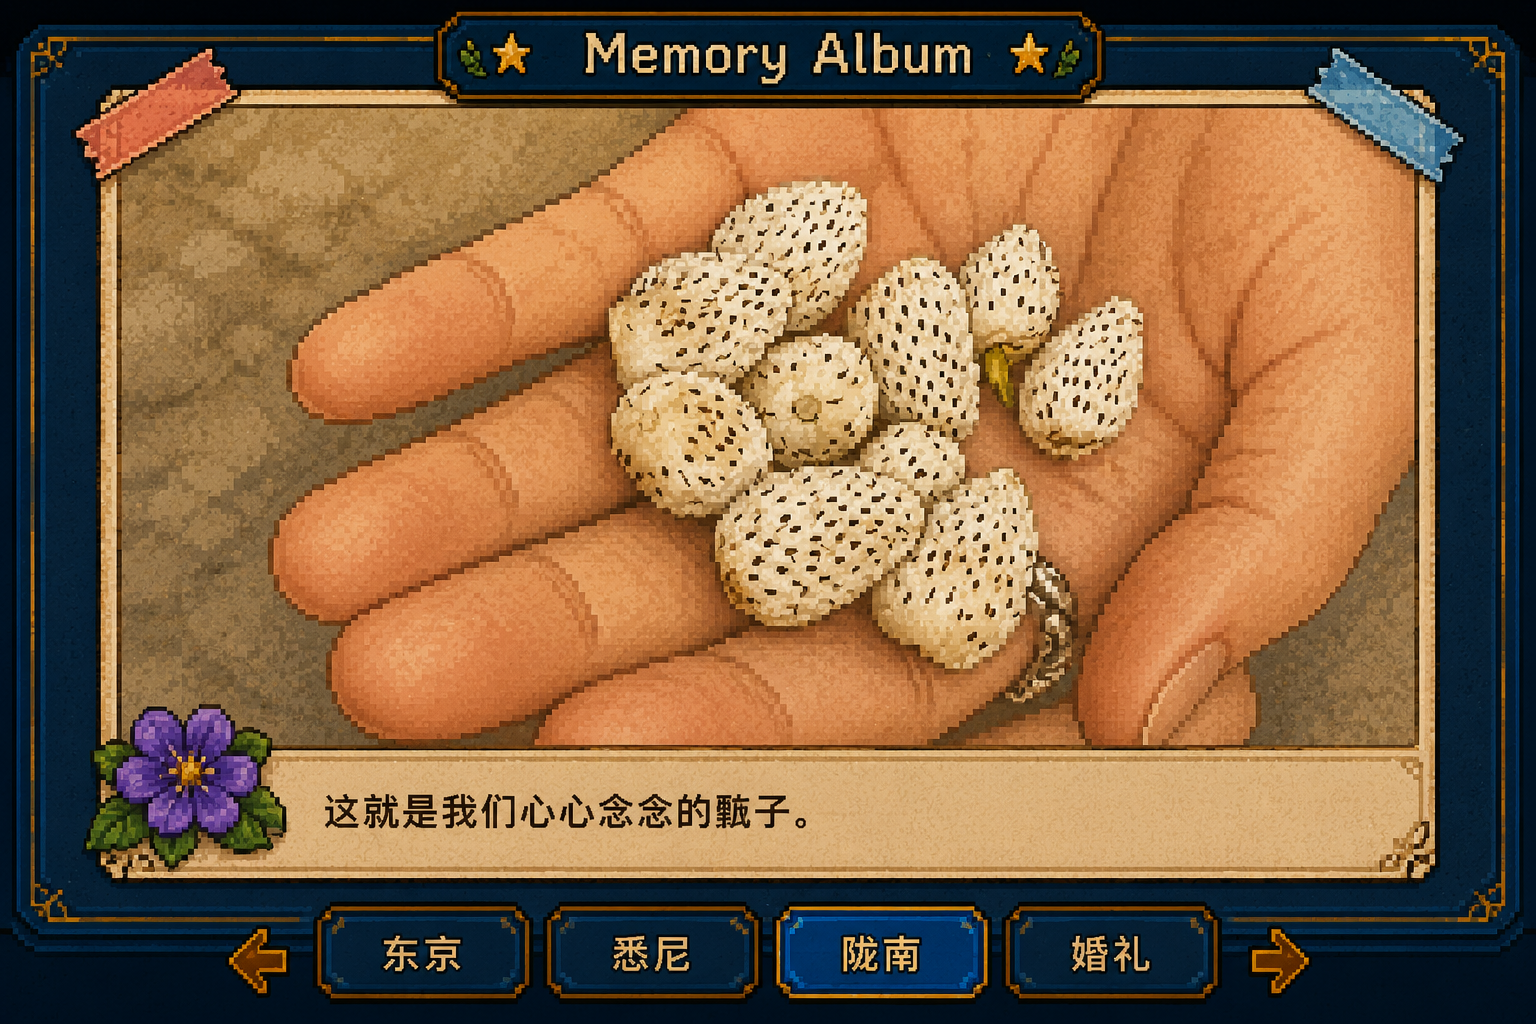
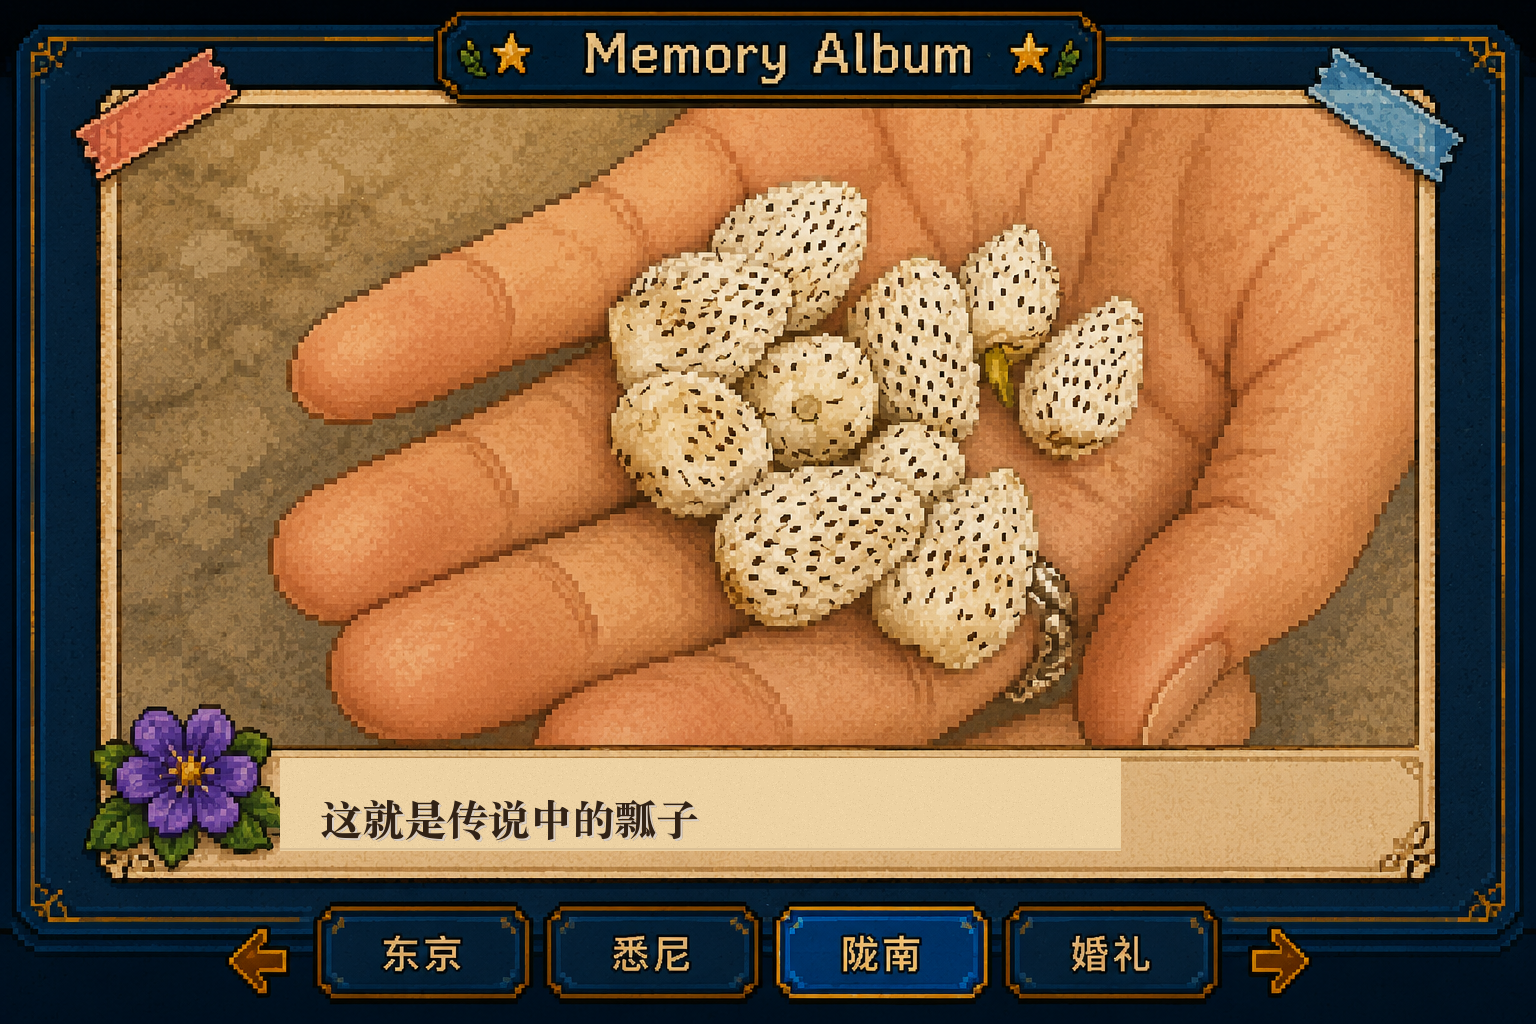
mod

Changed region(s): [[0.1562, 0.7188, 0.75, 0.8438]]

diff --git a/main.js b/main.js
@@ -1,6 +1,6 @@
 /* ======================================
    AdventureWedding
-   Version 0.9.8.1 — Sydney Coles Dialogue Polish
+   Version 0.9.9 — Longnan Chapter Final Polish
 ====================================== */
 
 const canvas = document.getElementById("background");
@@ -908,7 +908,7 @@ const achievements = {
 // Story memories are intentionally lightweight: unlocking one records it for
 // the future album without introducing inventory or reward mechanics.
 const memoryAlbum = {
-    longnanBridgePiaozi: { unlocked: false, title: "Piaozi" }
+    longnanBridgePiaozi: { unlocked: false, title: "瓢子" }
 };
 
 let nearbyCatEvent = false;
@@ -1298,10 +1298,10 @@ function showLongnanMemorySparkle(interaction) {
 
 loadLongnanProgress();
 const longnanCGSequence = [
-    { id: "longnanChildhoodDrawing", pages: [{ speaker: "乐乐", text: "小时候，\n我最喜欢画这些山。" }] },
-    { id: "longnanPiaozi", pages: [{ speaker: "乐乐", text: "第一次摘到瓢子，\n也是在这里。" }] },
-    { id: "longnanTogether", pages: [{ speaker: "森", text: "原来，\n这里，\n就是你的世界。" }] },
-    { id: "longnanSunset", pages: [{ speaker: "森", text: "谢谢你，\n带我回来。" }, { speaker: "乐乐", text: "谢谢你，\n一直陪着我。" }] }
+    { id: "longnanChildhoodDrawing", hold: 1.05, pages: [{ speaker: "乐乐", text: "小时候，\n我最喜欢画这些山。" }] },
+    { id: "longnanPiaozi", hold: 1.25, pages: [{ speaker: "乐乐", text: "第一次摘到瓢子，\n也是在这里。" }] },
+    { id: "longnanTogether", hold: 1.15, pages: [{ speaker: "森", text: "原来，\n这里，\n就是你的世界。" }] },
+    { id: "longnanSunset", hold: 1.45, pages: [{ speaker: "森", text: "谢谢你，\n带我回来。" }, { speaker: "乐乐", text: "谢谢你，\n一直陪着我。" }] }
 ];
 
 const TOKYO_WORLD_PROMPT = "Warm 16-bit top-down Tokyo spring neighborhood: Tokyo Station entrance at the top center, park and pond at upper left, shrine at upper right, shopping street on the left, sakura avenue on the right, road and crosswalk below, and a river with wooden bridges along the bottom. Use dense handcrafted pixel-art detail, clear walkable stone paths, no labels, no UI, and no NPCs.";
@@ -1440,8 +1440,8 @@ const storyCGs = {
         memoryAlbum: true
     },
     longnanAlbumPiaozi: {
-        src: "assets/cg/memory-album/longnan-piaozi.png?v=0.8.7",
-        locationTitle: "Piaozi",
+        src: "assets/cg/memory-album/longnan-piaozi.png?v=0.9.9",
+        locationTitle: "瓢子",
         focalX: 0.5,
         focalY: 0.5,
         mobileDisplay: "contain",
@@ -2345,7 +2345,8 @@ function closeMeetingDialogue() {
     if (dialoguePurpose === "longnanHometown") {
 
         storyCGOverlay.phase = "endingHold";
-        storyCGOverlay.revealDelay = 0.45;
+        storyCGOverlay.revealDelay = 0.9;
+        gameplayPauseRemaining = 0.55;
 
     }
 
@@ -2358,26 +2359,25 @@ function closeMeetingDialogue() {
 
         };
         storyCGOverlay.phase = "endingHold";
-        storyCGOverlay.revealDelay = 0.8;
+        storyCGOverlay.revealDelay = longnanCGSequence[longnanCGIndex]?.hold || 1.1;
 
     }
 
     if (dialoguePurpose === "longnanMemory" && activeInteraction) {
 
+        markLongnanMemoryDiscovered(activeInteraction);
         activeInteraction.discovered = true;
         if (!activeInteraction.repeatable) activeInteraction.completed = true;
+        gameplayPauseRemaining = activeInteraction.id === "bridgeFlood" ? 0.75 : 0.45;
 
     }
 
     if (dialoguePurpose === "longnanPiaozi" && activeInteraction) {
 
+        markLongnanMemoryDiscovered(activeInteraction);
         activeInteraction.discovered = true;
-        if (activeInteraction.memoryId && memoryAlbum[activeInteraction.memoryId]) {
-
-            memoryAlbum[activeInteraction.memoryId].unlocked = true;
-            window.AudioManager?.playSFX?.("memoryUnlock");
-
-        }
+        window.AudioManager?.playSFX?.("memoryUnlock");
+        gameplayPauseRemaining = 0.95;
 
     }
 
@@ -3835,7 +3835,7 @@ function tryInteraction() {
             id: "longnanHometownView",
             dialogue: longnanHometownPages,
             dialoguePurpose: "longnanHometown",
-            revealDelay: 0.35
+            revealDelay: 0.5
         });
 
     } else if (nearbyLongnanMemoryAlbum) {
@@ -4259,6 +4259,19 @@ function getCameraTarget(zoom = getCameraFollowZoom()) {
 
     }
 
+    if (currentChapter === "longnanLookout" || currentChapter === "longnanTown") {
+
+        const scenicOffsetY = currentChapter === "longnanLookout"
+            ? (gameViewportState.isMobile && gameViewportState.portrait ? 42 : 18)
+            : (gameViewportState.isMobile && gameViewportState.portrait ? 68 : 26);
+
+        return {
+            x: Math.max(0, Math.min(player.x + player.width / 2 - visibleWidth / 2, maxX)),
+            y: Math.max(0, Math.min(player.y + player.height / 2 + scenicOffsetY - visibleHeight / 2, maxY))
+        };
+
+    }
+
     if (weddingGatewaySequence.active && ["formation", "approach", "catPause", "coupleEnter", "whiteFade", "whiteHold"].includes(weddingGatewaySequence.phase)) {
 
         const partyCenterX = (player.x + le.x + player.width + le.width) / 2;
@@ -4383,7 +4396,9 @@ function updateCamera(deltaTime) {
 
     const followZoom = getCameraFollowZoom();
     let target = getCameraTarget(followZoom);
-    const followAmount = 1 - Math.pow(1 - camera.smoothing, deltaTime * 60);
+    const longnanCameraPacing = currentChapter === "longnanLookout" || currentChapter === "longnanTown";
+    const cameraSmoothing = longnanCameraPacing ? Math.max(0.04, camera.smoothing * 0.62) : camera.smoothing;
+    const followAmount = 1 - Math.pow(1 - cameraSmoothing, deltaTime * 60);
 
     if (characterPanelOpen) return;
 

diff --git a/index.html b/index.html
@@ -150,8 +150,8 @@ PRESS START
 
 <footer class="version">
 
-Version 0.9.8.1<br>
-Sydney Coles Dialogue Polish
+Version 0.9.9<br>
+Longnan Chapter Final Polish
 
 </footer>
 
@@ -191,7 +191,7 @@ Sydney Coles Dialogue Polish
 <script src="audio/scene-audio.js?v=0.9.6.4"></script>
 <script src="audio/audio-manager.js?v=0.9.6.4"></script>
 <script src="audio/audio-debug-panel.js?v=0.9.6.4"></script>
-<script src="main.js?v=0.9.8.1"></script>
+<script src="main.js?v=0.9.9"></script>
 
 </body>
 
